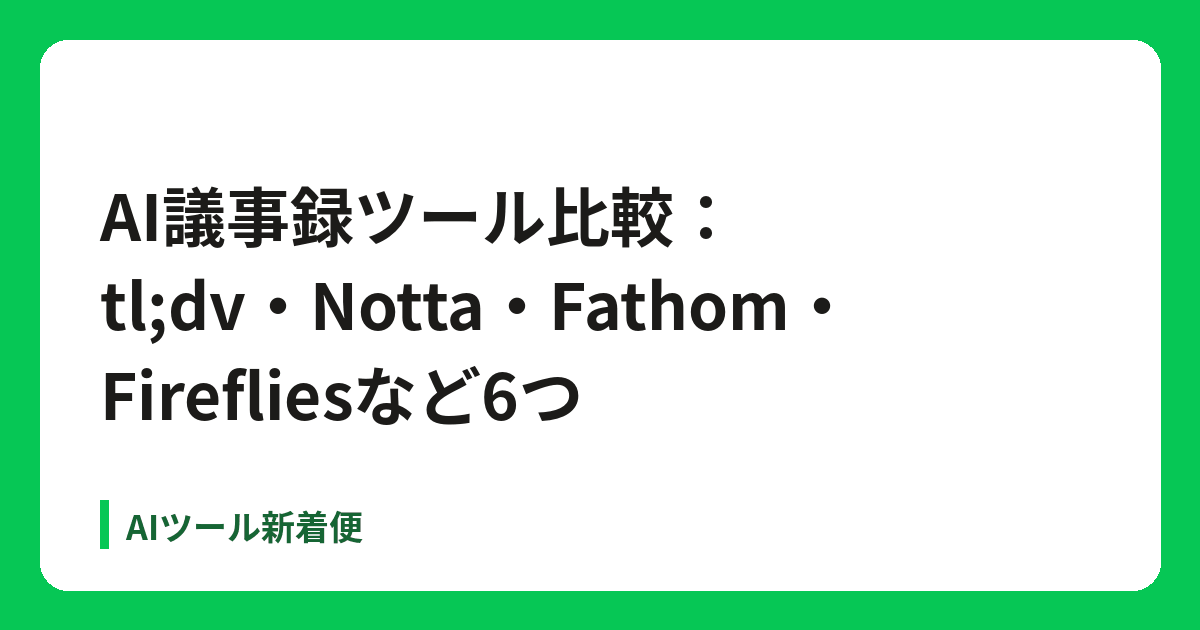
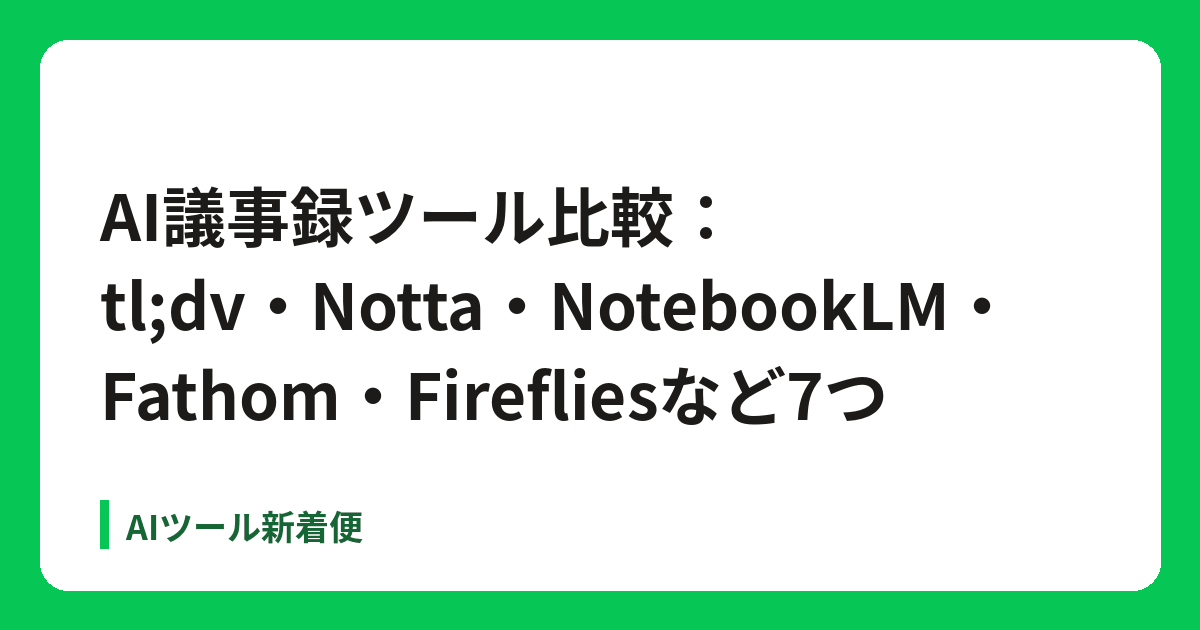
AI議事録ツール比較：7ツールの無料枠比較表に統合（NotebookLM追加）2026-10-29

Changed region(s): [[0.1233, 0.573, 0.74, 0.6937], [0.4625, 0.4222, 0.8325, 0.5429]]

diff --git a/data/articles.js b/data/articles.js
@@ -297,16 +297,16 @@ module.exports = [
   {
     "slug": "ai-gijiroku-tool-hikaku",
     "date": "2026-10-20",
-    "updated": "2026-10-28",
+    "updated": "2026-10-29",
     "tools": [
       "tldv",
       "withteam-ai-mojiokoshi",
       "plaud",
       "notta"
     ],
-    "title": "AI議事録ツール比較：tl;dv・Notta・Fathom・Firefliesなど6つ",
-    "desc": "AI議事録ツールtl;dv・WITH TEAM AI文字起こし・Plaud・Notta・Fathom・Firefliesを、公式サイトで確認した料金・無料枠・日本語対応で比較。会議の形や使う頻度ごとの選び方も整理しました。",
-    "body": "<h1>AI議事録ツール比較：tl;dv・Notta・Fathom・Firefliesなど6つ</h1><p class=\"muted\">更新日：2026年10月28日。料金・機能は2026年10月16〜20日に各公式サイトで確認した内容です。FathomとFirefliesは2026年10月28日に公式の料金ページで確認しました。変更されることがあるため、申し込み前に必ず公式サイトをご確認ください。「公式サイトに記載なし」は公式サイトで確かめられなかった項目です。</p>\n<p>会議の議事録づくりをAIで楽にするツールを6つ、当サイトのツールページで公式サイトをもとに確認した料金・無料枠・日本語対応で比べます。タイプがそれぞれ違うので、まず「どう録音するか」で選ぶのがおすすめです。この記事にはアフィリエイトリンク（PR）を含みます。</p>\n<h2>6ツールの違い（一覧）</h2><table><tr><th>ツール</th><th>タイプ</th><th>無料で使える範囲</th><th>有料の料金（税込）</th><th>日本語</th></tr>\n<tr><td><a href=\"../../tools/tldv/\">tl;dv</a></td><td>オンライン会議・対面会議の録画＋AI要約</td><td>無料プランあり（録画・文字起こしは回数無制限、AIメモは10会議分まで、カード不要）</td><td>プロ ¥36,960/年・ビジネス ¥59,760/年（1シート・年払い）。月払いの円建て料金は公式サイトに記載なし</td><td>対応</td></tr>\n<tr><td><a href=\"../../tools/withteam-ai-mojiokoshi/\">WITH TEAM AI文字起こし</a></td><td>音源をアップロードする従量課金の文字起こし</td><td>音源の冒頭を無料でお試し可</td><td>1分33円・最低料金66円。月額・初期費用なし</td><td>解析は日本語のみ</td></tr>\n<tr><td><a href=\"../../tools/plaud/\">Plaud</a></td><td>AIボイスレコーダー（専用デバイス）</td><td>無料Starterプランで毎月300分の文字起こし（デバイスの購入が必要）</td><td>デバイス ¥27,500〜¥30,800。Pro 年間¥16,800・Unlimited 年間¥40,000。月払いは公式サイトに記載なし</td><td>対応</td></tr>\n<tr><td><a href=\"../../tools/notta/\">Notta</a></td><td>会議・対面・電話・音声ファイルの文字起こし＋AI議事録</td><td>フリー：月120分・1回3分まで、AI要約10回/月（カード不要）</td><td>プレミアム 1,185円/月・ビジネス 2,508円/月（いずれも年払い換算）</td><td>対応</td></tr>\n<tr><td>Fathom</td><td>オンライン会議の録画＋AI要約</td><td>Free：録画・文字起こしは無制限、AI要約あり</td><td>Premium 月$20（年払いは月あたり$16）・Team 1ユーザー月$19（年払いは月あたり$15、2ユーザーから）・Business 1ユーザー月$34（年払いは月あたり$25）。円での金額は公式サイトに記載なし</td><td>日本語の文字起こしに対応（公式ヘルプの対応言語38に日本語あり）</td></tr>\n<tr><td>Fireflies</td><td>オンライン会議の録音・文字起こし＋AI要約</td><td>Free：文字起こしは無制限（注記つき）、AI要約は回数に制限あり、保存は1チーム400分まで、AIクレジット20</td><td>Pro 1シート月$18（年払いは月あたり$10）・Business 1シート月$29（年払いは月あたり$19）・Enterprise 1シート月$39（年払いのみ）</td><td>100以上の言語で文字起こしと記載（英語が中心で、ほかの言語はベータと案内）。日本語の個別の記載は料金ページになし</td></tr></table>\n<h2>FathomとFirefliesの無料枠（2026年10月28日確認）</h2><table><tr><th>ツール</th><th>無料プランの内容</th><th>出典（公式）</th><th>確認日</th></tr>\n<tr><td>Fathom</td><td>Free（ずっと無料）：録画と文字起こしは無制限、AIによる会議の要約、クリップ・プレイリスト・会議の検索。AIのアクションアイテムやAIアシスタントはPremium以上</td><td>https://www.fathom.ai/pricing</td><td>2026-10-28</td></tr>\n<tr><td>Fireflies</td><td>Free（$0・ずっと無料）：文字起こしは無制限（注記つき）、AI要約は制限あり、保存は1チーム400分まで、AIクレジット20、録音は1回2時間まで</td><td>https://fireflies.ai/pricing</td><td>2026-10-28</td></tr></table>\n<h2>どれを選ぶ？</h2><ul><li><b>Zoom・Meet・Teamsの会議が中心で、まず無料で試したい</b>：tl;dv または Notta</li><li><b>文字起こしはたまにだけ・月額を払いたくない</b>：WITH TEAM AI文字起こし（使った分だけ）</li><li><b>対面の会議・商談・取材が多く、スマホやPCを出さずに録音したい</b>：Plaud</li><li><b>電話や音声ファイルもまとめて文字起こししたい・日本語の議事録を重視</b>：Notta</li></ul>\n<h2>tl;dv</h2><p>Zoom・Google Meet・Microsoft Teamsや対面会議を録画・文字起こしし、要約・決定事項・タスクをAIが自動で作る会議AI。主催者でなくても記録でき、SalesforceやHubSpotなどのCRMにも内容を反映できます（公式サイトの記載）。</p><p><a class=\"cta\" href=\"https://tldv.cello.so/hWETXPHvSAc\" rel=\"sponsored nofollow noopener\" target=\"_blank\">tl;dvを無料ではじめる（紹介リンク）</a><span class=\"pr\">PR</span></p><p class=\"muted\">PR：上のボタンはtl;dvの紹介プログラムのリンク（広告）です。リンク先で有料プランの申し込みがあると、運営者が紹介報酬を受け取ることがあります。紹介プログラムの案内では、このリンクから登録した人は30%割引を受けられるとされています（適用条件はリンク先でご確認ください）。掲載内容は報酬で変えていません。</p><p>詳しくは<a href=\"../../tools/tldv/\">tl;dvのツールページ</a>へ。</p>\n<h2>WITH TEAM AI文字起こし</h2><p>文字起こし会社が開発した、音源をアップロードするだけのAI自動文字起こしサービス。月額なしの完全従量課金で、使った分だけ支払います。支払いはクレジットカードのみです。</p><p><a class=\"cta\" href=\"https://af.moshimo.com/af/c/click?a_id=5855433&p_id=4456&pc_id=11583&pl_id=60038\" rel=\"sponsored nofollow noopener\" target=\"_blank\">WITH TEAM AI文字起こしを試す</a><span class=\"pr\">PR</span></p><p class=\"muted\">PR：上のボタンはもしもアフィリエイト経由のアフィリエイトリンク（広告）です。リンク先で申し込みがあると、運営者が紹介報酬を受け取ることがあります。掲載内容は報酬で変えていません。</p><p>詳しくは<a href=\"../../tools/withteam-ai-mojiokoshi/\">WITH TEAM AI文字起こしのツールページ</a>へ。</p>\n<h2>Plaud</h2><p>会話・通話・オンライン会議を録音し、AIが文字起こし・要約するAIボイスレコーダー。カード型のPlaud Note／Note Proと、身につけるPlaud NotePin／NotePin Sがあり、112ヶ国語の文字起こしと話者ラベルに対応しています（公式サイトの記載）。</p><p><a class=\"cta\" href=\"https://px.a8.net/svt/ejp?a8mat=3ZFOPI+E0A8H6+5J4W+5YZ76\" rel=\"sponsored nofollow noopener\" target=\"_blank\">Plaud公式ストアで見る（広告）</a><span class=\"pr\">PR</span></p><p class=\"muted\">PR：上のボタンはA8.netのアフィリエイトリンク（広告）です。リンク先で購入があると、運営者が報酬を受け取ることがあります。掲載内容は報酬で変えていません。</p><p>詳しくは<a href=\"../../tools/plaud/\">Plaudのツールページ</a>へ。</p>\n<h2>Notta</h2><p>オンライン会議・対面・電話・音声ファイルの会話を文字起こしし、AIが要点・話者・決定事項・タスクを整理するAI議事録ツール。議事録やフォローメールの下書きも作れます。プレミアムには3日間の無料トライアルがあります（終了後は年間プランで自動更新）。</p><p><a class=\"cta\" href=\"https://notta.cello.so/poV7STKwa5L\" rel=\"sponsored nofollow noopener\" target=\"_blank\">Nottaを無料で試す</a><span class=\"pr\">PR</span></p><p class=\"muted\">上のボタンはアフィリエイトリンク（PR）です。</p><p>詳しくは<a href=\"../../tools/notta/\">Nottaのツールページ</a>や<a href=\"../notta-tsukaikata-ryoukin/\">Nottaの使い方・料金</a>へ。</p>\n<h2>Fathom</h2><p>オンライン会議を録画・文字起こしし、AIが要約を作るツールです。料金ページでは、個人向けのFreeで録画と文字起こしが無制限、AIによる要約がすぐ届くと書かれています。会議ボットなしで記録する方法（Mac向けのベータ）も選べます。対応言語は38で、日本語も入っています（公式ヘルプより）。ただし、要約の自動翻訳に対応する言語は、スペイン語・ポルトガル語・ドイツ語・フランス語・イタリア語・オランダ語と書かれています。料金はドル表示です。最新の料金は公式ページでご確認ください。</p>\n<h2>Fireflies</h2><p>Zoom・Google Meet・Microsoft Teamsなどの会議を録音・文字起こしし、AIが要約を作るツールです（タスク管理などはPro以上）。無料プランでも文字起こしは無制限（注記つき）ですが、AI要約は制限つき、保存は1チームで400分まで、録音は1回2時間までです。登録はGoogleかOutlookのアカウントで行うと案内されています。文字起こしは英語が中心で、ほかの100以上の言語はベータと書かれています。料金はドル表示です。最新の料金は公式ページでご確認ください。</p>\n<h2>注意点</h2><ul><li>録音・録画するときは、参加者に事前に伝えて同意をとりましょう。</li><li>AIの文字起こしや要約には誤りが入ることがあります。数字や名前は元の音声で確認してください。</li><li>録音データがAIの学習に使われるかどうかは、各ツールの公式のプライバシーポリシーをご確認ください。Firefliesは、データをAIの学習に使わないと料金ページに書いています。</li></ul>\n<h2>関連</h2><p><a href=\"../mojiokoshi-ai-hikaku/\">文字起こしAI比較</a>／<a href=\"../muryou-mojiokoshi-ai/\">無料で使える文字起こしAI</a>／<a href=\"../gijiroku-ai-jidouka/\">議事録をAIで自動化する方法</a>／<a href=\"../plaud-tsukaikata-ryoukin/\">Plaud（AIボイスレコーダー）の使い方・料金</a>／<a href=\"../../category/%E8%AD%B0%E4%BA%8B%E9%8C%B2%E3%83%BB%E6%96%87%E5%AD%97%E8%B5%B7%E3%81%93%E3%81%97/\">議事録・文字起こしのAIツール一覧</a></p>\n<h2>出典（公式）</h2><pre><code>https://tldv.io/ja/\nhttps://withteam.jp/aimojiokoshi/\nhttps://jp.plaud.ai/\nhttps://www.notta.ai/pricing\nhttps://www.fathom.ai/pricing\nhttps://help.fathom.video/en/articles/296192\nhttps://fireflies.ai/pricing</code></pre>"
+    "title": "AI議事録ツール比較：tl;dv・Notta・NotebookLM・Fathom・Firefliesなど7つ",
+    "desc": "AI議事録ツールtl;dv・Notta・NotebookLM・Fathom・Fireflies・WITH TEAM AI文字起こし・Plaudの無料枠・日本語・Zoom/Meet/Teams対応・データの学習利用を、2026年10月29日に公式ページで確認して1つの表にまとめました。",
+    "body": "<h1>AI議事録ツール比較：tl;dv・Notta・NotebookLM・Fathom・Firefliesなど7つ</h1><p class=\"muted\">更新日：2026年10月29日。無料枠・日本語・対応する会議ツール・データの学習利用は、2026年10月29日に各公式の料金ページ・ヘルプで確認した内容です。変更されることがあるため、申し込み前に必ず公式サイトをご確認ください。「公式サイトに記載なし」は、今回確認した公式ページに書かれていなかった項目です。</p>\n<h2>結論（2026年10月29日確認）</h2><ul><li>Zoom・Google Meet・Microsoft Teamsの会議を無料で記録したいなら、tl;dv・Fathom・Firefliesが料金ページで無料プランを案内しています（Firefliesは保存1チーム400分まで）。</li><li>日本語の対面会議や音声ファイルを月の時間内で試すならNotta（月120分・1回3分まで）、専用機で録音するならPlaud（無料Starterで毎月300分）です。</li><li>NotebookLMは会議を録音するツールではなく、録音した音声ファイルや議事録をソースとして読み込み、質問・要約に使うツールです（無料はソース50件/ノートブック）。</li></ul>\n<p>この記事にはアフィリエイトリンク（PR）を含みます。</p>\n<h2>無料枠の比較表（7ツール）</h2><table><tr><th>ツール</th><th>無料の上限（分・回数）</th><th>日本語</th><th>Zoom・Meet・Teams対応</th><th>データの学習利用</th><th>確認日</th><th>公式URL</th></tr>\n<tr><td><a href=\"../../tools/tldv/\">tl;dv</a></td><td>¥0。録画は回数無制限、30以上の言語で文字起こし無制限。AIメモは10会議分、「AIに尋ねる」は10回分。クレジットカード不要</td><td>対応（日本語の文字起こし・日本語サポートと記載）</td><td>対応（Zoom・Google Meet・Microsoft Teams・Slackと記載）</td><td>お客様のデータをAIモデルの学習に使用しないと記載</td><td>2026-10-29</td><td>https://tldv.io/ja/</td></tr>\n<tr><td><a href=\"../../tools/notta/\">Notta</a></td><td>フリー0円：文字起こし120分/月・1回3分まで、ファイルインポート50個/月、AI要約10回/月。クレジットカード登録不要</td><td>対応（日本語の料金ページ・サポートあり）</td><td>料金ページでは「ミーティングの文字起こし」がフリー機能、「Web会議の録画」はビジネスプランの項目。個別の会議ツール名は料金ページに記載なし</td><td>料金ページで「AI学習なし」はエンタープライズの項目。フリープランの扱いは公式サイトに記載なし</td><td>2026-10-29</td><td>https://www.notta.ai/pricing</td></tr>\n<tr><td>NotebookLM</td><td>無料（Gmailアカウントで登録）：ノートブック100件/ユーザー、ソース50件/ノートブック。1ソース50万語・200MBまで</td><td>対応（音声インポートの対応言語に日本語あり）</td><td>会議への参加・録音機能は公式ヘルプに記載なし（MP3・WAVなどの音声ファイルをソースとして取り込む形）</td><td>フィードバックを送らない限りトレーニングに使用されないと記載</td><td>2026-10-29</td><td>https://support.google.com/notebooklm/answer/16213268?hl=ja</td></tr>\n<tr><td>Fathom</td><td>Free（ずっと無料）：録画・文字起こし無制限、AIによる会議の要約。AIのアクションアイテムはPremium以上</td><td>対応（公式ヘルプの対応言語に日本語あり）</td><td>料金ページに会議ツール名の記載なし（ボットあり・ボットなし〈Mac向けベータ〉の記録を選べると記載）</td><td>料金ページに記載なし</td><td>2026-10-29</td><td>https://www.fathom.ai/pricing</td></tr>\n<tr><td>Fireflies</td><td>Free（$0）：文字起こし無制限（注記つき）、AI要約は制限あり、保存は1チーム400分、AIクレジット20、録音は1回2時間まで</td><td>100以上の言語で文字起こしと記載（英語が中心で、ほかの言語はベータ）。日本語の個別の記載は料金ページになし</td><td>対応（Zoom・Google Meet・MS Teamsほかと記載）</td><td>データをAIの学習に使わないと料金ページに記載</td><td>2026-10-29</td><td>https://fireflies.ai/pricing</td></tr>\n<tr><td><a href=\"../../tools/withteam-ai-mojiokoshi/\">WITH TEAM AI文字起こし</a></td><td>音源の冒頭を無料で文字起こし（最大1GB／120分の音源までアップ可）。本利用は1分33円（税込）・最低66円</td><td>解析対応言語は日本語</td><td>音源ファイルのアップロード方式。会議ツールとの連携は公式サイトに記載なし</td><td>AIエンジン側で利用者の音声・動画が目的外利用されないと記載。音源は1か月後に自動削除</td><td>2026-10-29</td><td>https://withteam.jp/aimojiokoshi/</td></tr>\n<tr><td><a href=\"../../tools/plaud/\">Plaud</a></td><td>無料Starterプランで毎月300分の文字起こし（デバイスの購入が必要）</td><td>対応（112ヶ国語の文字起こしと記載）</td><td>公式サイトに記載なし</td><td>公式サイトに記載なし</td><td>2026-10-29</td><td>https://jp.plaud.ai/</td></tr></table>\n<p class=\"muted\">有料プランの料金は下の各ツールの節にまとめています。最新の料金は公式ページでご確認ください。</p><h2>どれを選ぶ？</h2><ul><li><b>Zoom・Meet・Teamsの会議が中心で、まず無料で試したい</b>：tl;dv または Notta</li><li><b>文字起こしはたまにだけ・月額を払いたくない</b>：WITH TEAM AI文字起こし（使った分だけ）</li><li><b>対面の会議・商談・取材が多く、スマホやPCを出さずに録音したい</b>：Plaud</li><li><b>電話や音声ファイルもまとめて文字起こししたい・日本語の議事録を重視</b>：Notta</li><li><b>たまった議事録や録音に質問して振り返りたい</b>：NotebookLM（<a href=\"../notebooklm-muryou-jougen/\">NotebookLM無料版の上限まとめ</a>）</li></ul>\n<h2>tl;dv</h2><p>Zoom・Google Meet・Microsoft Teamsや対面会議を録画・文字起こしし、要約・決定事項・タスクをAIが自動で作る会議AI。主催者でなくても記録でき、SalesforceやHubSpotなどのCRMにも内容を反映できます（公式サイトの記載）。</p><p><a class=\"cta\" href=\"https://tldv.cello.so/hWETXPHvSAc\" rel=\"sponsored nofollow noopener\" target=\"_blank\">tl;dvを無料ではじめる（紹介リンク）</a><span class=\"pr\">PR</span></p><p class=\"muted\">PR：上のボタンはtl;dvの紹介プログラムのリンク（広告）です。リンク先で有料プランの申し込みがあると、運営者が紹介報酬を受け取ることがあります。紹介プログラムの案内では、このリンクから登録した人は30%割引を受けられるとされています（適用条件はリンク先でご確認ください）。掲載内容は報酬で変えていません。</p><p>詳しくは<a href=\"../../tools/tldv/\">tl;dvのツールページ</a>へ。</p>\n<h2>WITH TEAM AI文字起こし</h2><p>文字起こし会社が開発した、音源をアップロードするだけのAI自動文字起こしサービス。月額なしの完全従量課金で、使った分だけ支払います。支払いはクレジットカードのみです。</p><p><a class=\"cta\" href=\"https://af.moshimo.com/af/c/click?a_id=5855433&p_id=4456&pc_id=11583&pl_id=60038\" rel=\"sponsored nofollow noopener\" target=\"_blank\">WITH TEAM AI文字起こしを試す</a><span class=\"pr\">PR</span></p><p class=\"muted\">PR：上のボタンはもしもアフィリエイト経由のアフィリエイトリンク（広告）です。リンク先で申し込みがあると、運営者が紹介報酬を受け取ることがあります。掲載内容は報酬で変えていません。</p><p>詳しくは<a href=\"../../tools/withteam-ai-mojiokoshi/\">WITH TEAM AI文字起こしのツールページ</a>へ。</p>\n<h2>Plaud</h2><p>会話・通話・オンライン会議を録音し、AIが文字起こし・要約するAIボイスレコーダー。カード型のPlaud Note／Note Proと、身につけるPlaud NotePin／NotePin Sがあり、112ヶ国語の文字起こしと話者ラベルに対応しています（公式サイトの記載）。</p><p><a class=\"cta\" href=\"https://px.a8.net/svt/ejp?a8mat=3ZFOPI+E0A8H6+5J4W+5YZ76\" rel=\"sponsored nofollow noopener\" target=\"_blank\">Plaud公式ストアで見る（広告）</a><span class=\"pr\">PR</span></p><p class=\"muted\">PR：上のボタンはA8.netのアフィリエイトリンク（広告）です。リンク先で購入があると、運営者が報酬を受け取ることがあります。掲載内容は報酬で変えていません。</p><p>詳しくは<a href=\"../../tools/plaud/\">Plaudのツールページ</a>へ。</p>\n<h2>Notta</h2><p>オンライン会議・対面・電話・音声ファイルの会話を文字起こしし、AIが要点・話者・決定事項・タスクを整理するAI議事録ツール。議事録やフォローメールの下書きも作れます。プレミアムには3日間の無料トライアルがあります（終了後は年間プランで自動更新）。</p><p><a class=\"cta\" href=\"https://notta.cello.so/poV7STKwa5L\" rel=\"sponsored nofollow noopener\" target=\"_blank\">Nottaを無料で試す</a><span class=\"pr\">PR</span></p><p class=\"muted\">上のボタンはアフィリエイトリンク（PR）です。</p><p>詳しくは<a href=\"../../tools/notta/\">Nottaのツールページ</a>や<a href=\"../notta-tsukaikata-ryoukin/\">Nottaの使い方・料金</a>へ。</p>\n<h2>NotebookLM</h2><p>Googleの、取り込んだ資料（ソース）をもとに質問・要約するツールです。公式ヘルプでは「Gemini Notebook」の名前でも案内されています。音声ファイル（MP3・WAVなど）は取り込むときに文字起こしされ、対応言語に日本語が入っています。会議に参加して自動で録音する機能は公式ヘルプに記載がないため、録音は別のツールで行い、その音声や議事録を読み込む使い方になります。無料はGmailアカウントで登録でき、ノートブック100件/ユーザー、ソース50件/ノートブックまでです。有料はGoogle AI Plus・Pro・Ultraなどのプランで上限が引き上げられます。</p>\n<h2>Fathom</h2><p>料金ページでは、Premium 月$20（年払いは月あたり$16）、Team 1ユーザー月$19（年払いは月あたり$15、2ユーザーから）、Business 1ユーザー月$34（年払いは月あたり$25）と表示されています。オンライン会議を録画・文字起こしし、AIが要約を作るツールです。料金ページでは、個人向けのFreeで録画と文字起こしが無制限、AIによる要約がすぐ届くと書かれています。会議ボットなしで記録する方法（Mac向けのベータ）も選べます。対応言語は38で、日本語も入っています（公式ヘルプより）。ただし、要約の自動翻訳に対応する言語は、スペイン語・ポルトガル語・ドイツ語・フランス語・イタリア語・オランダ語と書かれています。料金はドル表示です。最新の料金は公式ページでご確認ください。</p>\n<h2>Fireflies</h2><p>料金ページでは、Pro 1シート月$18（年払いは月あたり$10）、Business 年払いで1シート月あたり$19と表示されています。Zoom・Google Meet・Microsoft Teamsなどの会議を録音・文字起こしし、AIが要約を作るツールです（タスク管理などはPro以上）。無料プランでも文字起こしは無制限（注記つき）ですが、AI要約は制限つき、保存は1チームで400分まで、録音は1回2時間までです。登録はGoogleかOutlookのアカウントで行うと案内されています。文字起こしは英語が中心で、ほかの100以上の言語はベータと書かれています。料金はドル表示です。最新の料金は公式ページでご確認ください。</p>\n<h2>注意点</h2><ul><li>録音・録画するときは、参加者に事前に伝えて同意をとりましょう。</li><li>AIの文字起こしや要約には誤りが入ることがあります。数字や名前は元の音声で確認してください。</li><li>録音データがAIの学習に使われるかどうかは、各ツールの公式のプライバシーポリシーをご確認ください。比較表の「データの学習利用」の列もあわせてご覧ください。</li></ul>\n<h2>関連</h2><p><a href=\"../mojiokoshi-ai-hikaku/\">文字起こしAI比較</a>／<a href=\"../muryou-mojiokoshi-ai/\">無料で使える文字起こしAI</a>／<a href=\"../gijiroku-ai-jidouka/\">議事録をAIで自動化する方法</a>／<a href=\"../plaud-tsukaikata-ryoukin/\">Plaud（AIボイスレコーダー）の使い方・料金</a>／<a href=\"../../category/%E8%AD%B0%E4%BA%8B%E9%8C%B2%E3%83%BB%E6%96%87%E5%AD%97%E8%B5%B7%E3%81%93%E3%81%97/\">議事録・文字起こしのAIツール一覧</a></p>\n<h2>出典（公式）</h2><pre><code>https://tldv.io/ja/\nhttps://withteam.jp/aimojiokoshi/\nhttps://jp.plaud.ai/\nhttps://tldv.io/ja/pricing/\nhttps://www.notta.ai/pricing\nhttps://support.google.com/notebooklm/answer/16213268?hl=ja\nhttps://support.google.com/notebooklm/answer/16215270?hl=ja\nhttps://www.fathom.ai/pricing\nhttps://help.fathom.video/en/articles/296192\nhttps://fireflies.ai/pricing</code></pre>"
   },
   {
     "slug": "mojiokoshi-ai-hikaku",
